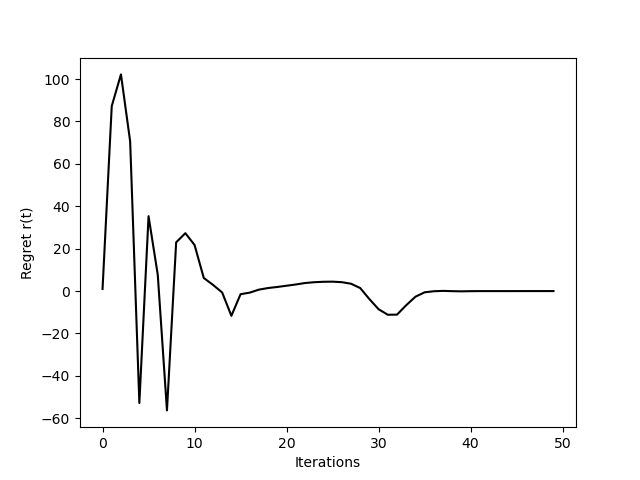
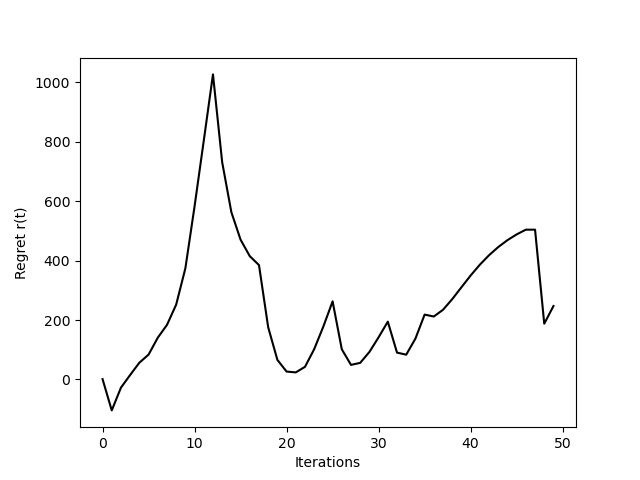
OFFICIALLY THE FINAL COMMIT

diff --git a/finalexecution.py b/finalexecution.py
@@ -34,10 +34,22 @@ recharger_points = [recharger1_point, recharger2_point, recharger3_point, rechar
 battery_threshold = 0.4  # Below 40%
 
 idle_consumption_rate = 0.01
-idle_consumption_rate = 0.05
+idle_consumption_rate = 0.15
 
 # Assign charging points to robots
 robot_charging_points = [recharger1_point, recharger2_point, recharger3_point, recharger4_point, recharger5_point]
+
+def find_nearest_charging_station(robot_position, charging_points):
+    min_distance = float('inf')
+    nearest_station = None
+    for station in charging_points:
+        station_center = np.array(station.center)  # Extract center coordinates
+        distance = np.linalg.norm(robot_position - station_center)  # Calculate distance
+        if distance < min_distance:
+            min_distance = distance
+            nearest_station = station_center
+    return nearest_station
+
 
 def executeIPP_py(N=4, resolution=0.1, number_of_iterations=20, show_fig_flag=True, save_fig_flag=False):
     battery_levels = np.full(N,1.0)
@@ -72,6 +84,9 @@ def executeIPP_py(N=4, resolution=0.1, number_of_iterations=20, show_fig_flag=Tr
     locational_cost = np.ones(number_of_iterations)
     current_position_marker_handle = []
     charging_station = [recharger1_point.center[0], recharger1_point.center[1]] 
+    charging_threshold = 0.05
+    charging_rate = 0.1
+    transition_iterations = 8
 
 
     # Create a plot for battery levels
@@ -120,7 +135,7 @@ def executeIPP_py(N=4, resolution=0.1, number_of_iterations=20, show_fig_flag=Tr
     # for the 1st iteration setting the surrogate_mean
     surrogate_mean = copy.deepcopy(pred_mean)   
     beta_val = 0
-    r_t = 0
+    r_t = 0.0
     
     #########################################################  Main Code for Balancing Coverage and Informative Path Planning (IPP)
     goal_for_centroid = copy.deepcopy(current_robotspositions)
@@ -139,7 +154,7 @@ def executeIPP_py(N=4, resolution=0.1, number_of_iterations=20, show_fig_flag=Tr
             r_t = 1/iteration
             discretization = ((X.shape[0])*(X.shape[1])) * math.pi* math.pi* iteration *iteration 
         else: 
-            r_t = 1
+            r_t = 1.0
             discretization = ((X.shape[0])*(X.shape[1])) * math.pi* math.pi
         print(f"iteration:{iteration}")
         iteration_array[iteration] = iteration    
@@ -213,30 +228,36 @@ def executeIPP_py(N=4, resolution=0.1, number_of_iterations=20, show_fig_flag=Tr
 	    # Eq. 11 from [1]
         # Control law to find x_i dot : \dot{x}_i^(t) = (1 - gamma) * c_i^(t) + gamma * e_i^(t), for i in {1, ..., N}. Here r_t variable is the gamma(t)
         # r_t = 0
-        step_size = 1
+        # Calculating robots' positions difference
+        step_size = 1.0
         robotsPositions_diff = np.zeros((2, N))
         for robot in range(N):
+             # Find nearest charging station for the current robot
+            nearest_charging_station = find_nearest_charging_station(current_robotspositions[:2, robot], robot_charging_points)
+
             # Calculate distance to charging station
-            dist_to_cs = np.linalg.norm(current_robotspositions[:2, robot] - charging_station)
-            
+            dist_to_cs = np.linalg.norm(current_robotspositions[:2, robot] - nearest_charging_station)
+
             if battery_levels[robot] < battery_threshold:
-                # Move towards charging station
-                robotsPositions_diff[:, robot] = step_size * ((1 - r_t) * centroid[:, robot] + r_t * charging_station - current_robotspositions[:2, robot])
+                # Move towards charging station gradually
+                if dist_to_cs < charging_threshold:
+                    battery_levels[robot] = min(battery_levels[robot] + charging_rate, 0.80)
+                else:
+                    # Calculate the intermediate position between the current position and charging station
+                    charging_transition = current_robotspositions[:2, robot] + (nearest_charging_station - current_robotspositions[:2, robot]) * (1 / transition_iterations)
+                    robotsPositions_diff[:, robot] = step_size * (charging_transition - current_robotspositions[:2, robot])
             else:
-                # Move towards sampling goal
-                robotsPositions_diff[:, robot] = step_size * ((1 - r_t) * centroid[:, robot] + r_t * sampling_goal[:, robot] - current_robotspositions[:2, robot])
+                # Move towards sampling goal gradually
+                sampling_transition = current_robotspositions[:2, robot] + (sampling_goal[:, robot] - current_robotspositions[:2, robot]) * (1 / transition_iterations)
+                robotsPositions_diff[:, robot] = step_size * (sampling_transition - current_robotspositions[:2, robot])
 
             # Consume battery for movement
             distance_traveled = np.linalg.norm(robotsPositions_diff[:, robot])
             battery_levels[robot] -= idle_consumption_rate * distance_traveled
-            # bar_plot = plt.bar(range(N), battery_levels, color=battery_colors)
             bar_plot[robot].set_height(battery_levels[robot])
             bar_plot[robot].set_color(battery_colors[robot] if battery_levels[robot] >= battery_threshold else 'red')
             plt.draw()
             plt.pause(0.05)
-
-
-            
         ## Calculating All Performance Metrics
         locational_cost[iteration] = cost       
         #Calculate cumulative regret
